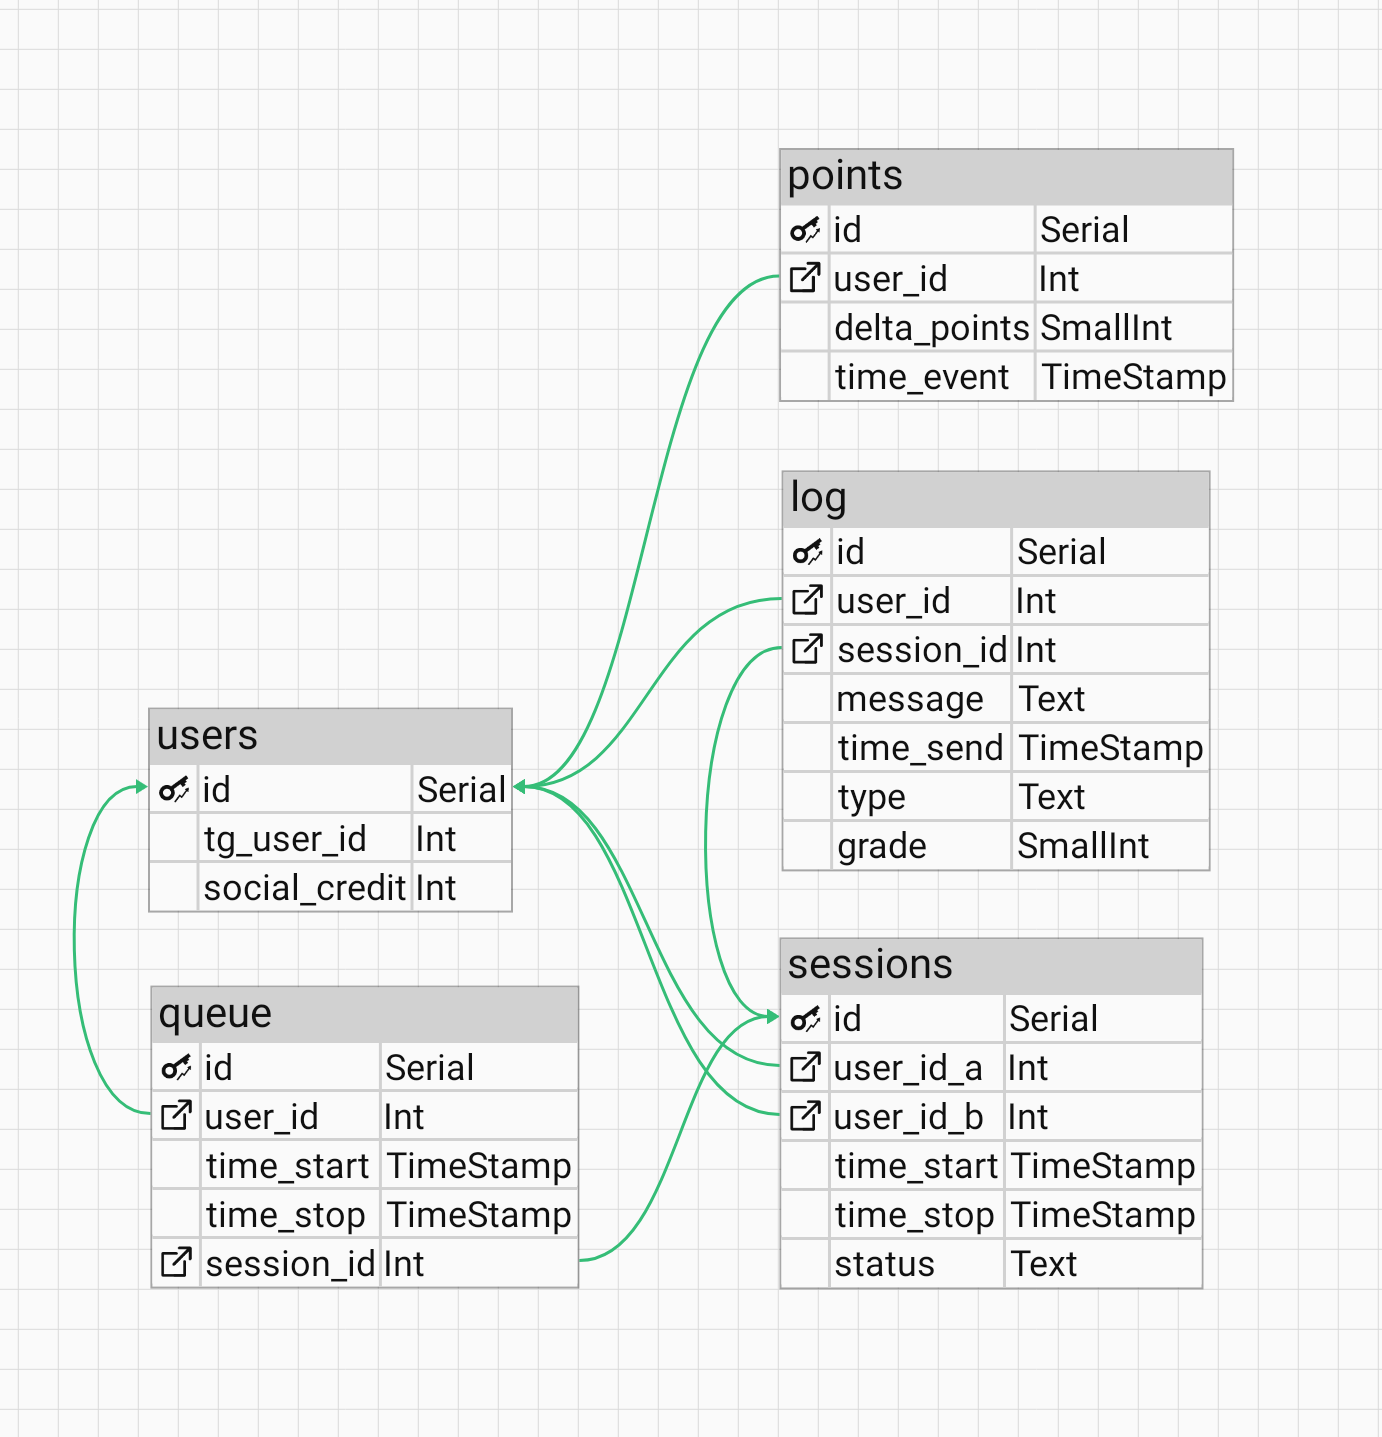
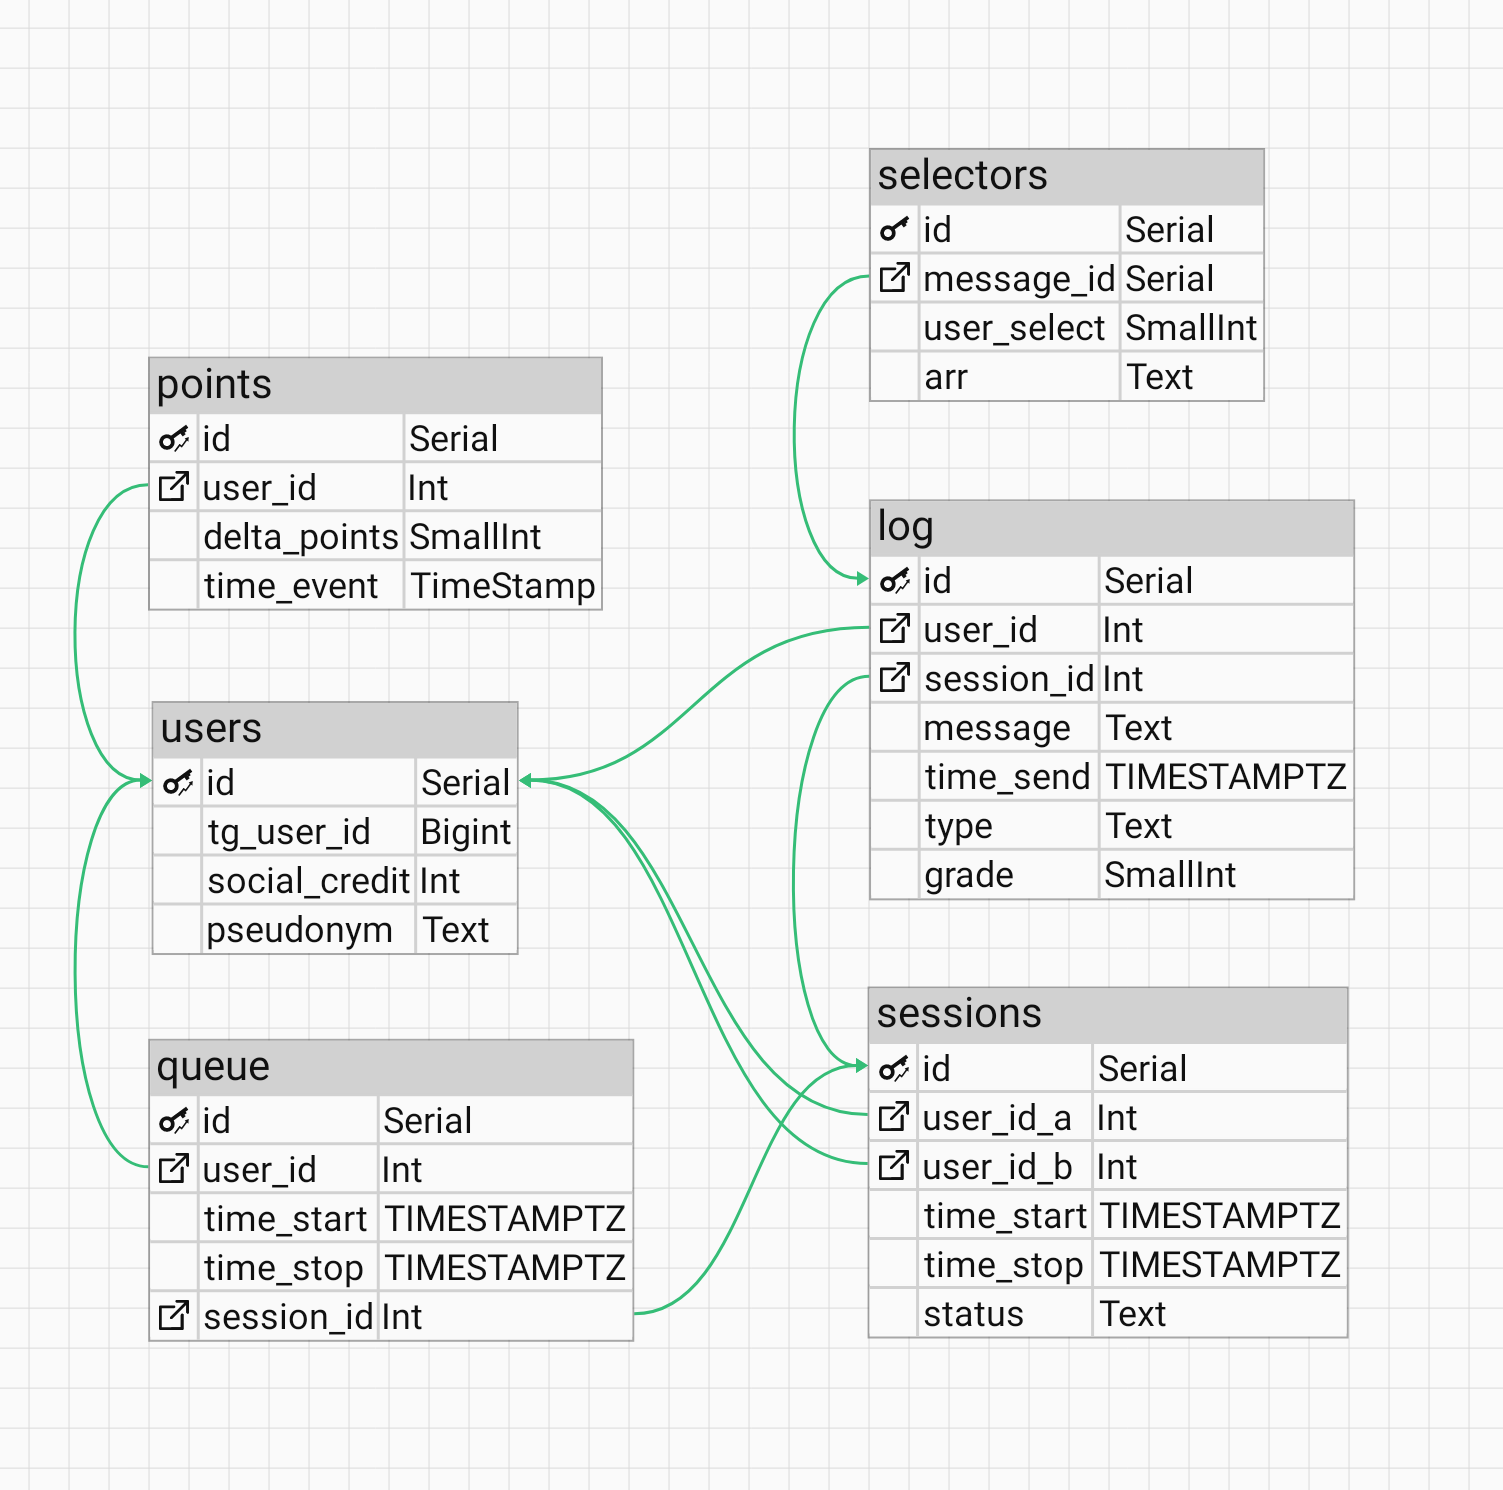
chore: update db scheme

diff --git a/README.md b/README.md
@@ -7,7 +7,7 @@
 </details>
 
 <details> 
-  <summary>[SPOILER] Gachi scheme. version 08.02.22  </summary>
+  <summary>[SPOILER] Gachi scheme. version 13.02.22  </summary>
 
   ![""](/.resource/gachi_scheme.png "Gachi")
 </details>
